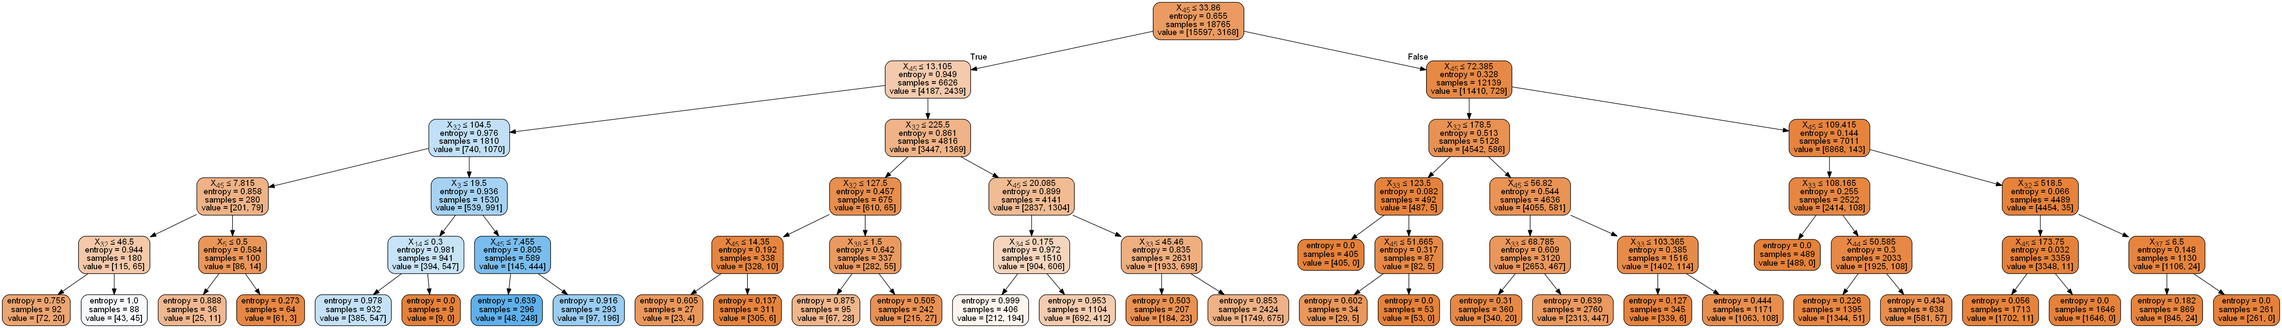
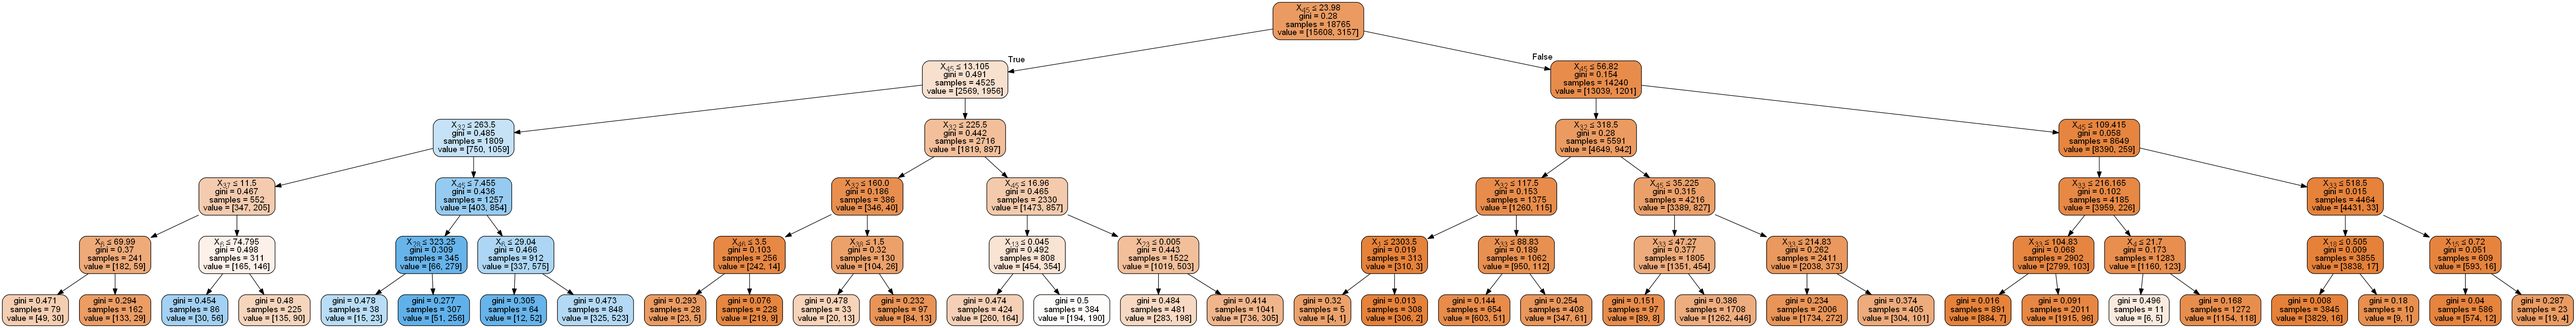
After lecture

diff --git a/lab2/src/main.py b/lab2/src/main.py
@@ -5,7 +5,6 @@ import random
 
 from CampaignDetails import CampaignDetails
 import Constants
-import matplotlib.pyplot as plt
 import pandas as pd
 from sklearn.tree import DecisionTreeClassifier, export_graphviz
 import numpy as np
@@ -14,6 +13,7 @@ from sklearn.metrics import accuracy_score
 from sklearn.externals.six import StringIO
 from sklearn.ensemble import BaggingClassifier  
 from sklearn.neighbors import KNeighborsClassifier
+from sklearn.neighbors import NearestNeighbors
 from sklearn.ensemble import RandomForestClassifier
 import pydot 
 
@@ -32,32 +32,6 @@ def SplitDataByProportion (data, training_proportion, test_proportion):
     testData = data[int(trainingCount):int(totalLength)]
     return trainingData, testData
 
-def VisualizeClassifier(model, X, y, ax=None, cmap='rainbow'):
-    ax = ax or plt.gca()
-    
-    # Plot the training points
-    ax.scatter(X[:, 0], X[:, 1], c=y, s=30, cmap=cmap,
-               clim=(y.min(), y.max()), zorder=3)
-    ax.axis('tight')
-    ax.axis('off')
-    xlim = ax.get_xlim()
-    ylim = ax.get_ylim()
-    
-    # fit the estimator
-    model.fit(X, y)
-    xx, yy = np.meshgrid(np.linspace(*xlim, num=200),
-                         np.linspace(*ylim, num=200))
-    Z = model.predict(np.c_[xx.ravel(), yy.ravel()]).reshape(xx.shape)
-
-    # Create a color plot with the results
-    n_classes = len(np.unique(y))
-    contours = ax.contourf(xx, yy, Z, alpha=0.3,
-                           levels=np.arange(n_classes + 1) - 0.5,
-                           cmap=cmap, clim=(y.min(), y.max()),
-                           zorder=1)
-
-    ax.set(xlim=xlim, ylim=ylim)
-
 def RunTraining(classifier, columns, resultCol, trainingData, testdata, imgFile=""):
     training_data_projection = trainingData[columns].values
     target_data_projection = trainingData[resultCol].values
@@ -68,6 +42,18 @@ def RunTraining(classifier, columns, resultCol, trainingData, testdata, imgFile=
     classifier.fit(training_data_projection, target_data_projection)
     results = classifier.predict(test_data_projection)
 
+    matrix = [0, 0, 0, 0]
+    
+    for i in range(0, len(results)):
+        if actual_result_data[i] and results[i]:
+            matrix[0] = matrix[0] + 1
+        elif actual_result_data[i] and not results[i]:
+            matrix[1] = matrix[1] + 1
+        elif not actual_result_data[i] and results[i]:
+            matrix[2] = matrix[2] + 1
+        elif not actual_result_data[i] and not results[i]:
+            matrix[3] = matrix[3] + 1
+
     accuracy = accuracy_score(actual_result_data, results)*100
     if imgFile != "":
         dot_data = StringIO()
@@ -75,7 +61,7 @@ def RunTraining(classifier, columns, resultCol, trainingData, testdata, imgFile=
         graph = pydot.graph_from_dot_data(dot_data.getvalue())
         graph[0].write_png(imgFile)
     
-    return accuracy 
+    return accuracy, matrix 
 
 
 def RunDecisionTree(columns, resultCol, trainingData, testdata, imgFile):    
@@ -83,28 +69,49 @@ def RunDecisionTree(columns, resultCol, trainingData, testdata, imgFile):
     return RunTraining(clf_gini, columns, resultCol, trainingData, testdata, imgFile)
 
 def RunDecisionTreeWithBagging(columns, resultCol, trainingData, testdata):    
-    bagging = BaggingClassifier(KNeighborsClassifier(),max_samples=0.5, max_features=0.5)
+    # bagging = BaggingClassifier(KNeighborsClassifier(),max_samples=0.5, max_features=0.5)
+    bagging = BaggingClassifier(DecisionTreeClassifier(criterion = "entropy", max_depth=5, min_samples_leaf=5),max_samples=0.5, max_features=0.5)
     return RunTraining(bagging, columns, resultCol, trainingData, testdata)
 
 def RunDecisionTreeWithForest(columns, resultCol, trainingData, testdata):    
     bagging = RandomForestClassifier(n_estimators=10)
     return RunTraining(bagging, columns, resultCol, trainingData, testdata)
 
+def RunBestFit(data):
+    nbrs = NearestNeighbors(n_neighbors=2, algorithm='ball_tree').fit(data) 
+
 def __main__():  
     df = pd.read_csv (Constants.DATA_FILE)
     df = shuffle(df)
     training_data, test_data = SplitDataByProportion(df, 90, 10)
-    run1 = RunDecisionTree(['RESPONDED',  'WEB', 'AVRG', 'CC_CARD'], 'RESP', training_data, test_data, '4features.png')
-    run2 = RunDecisionTree(['RESPONDED', 'WEB', 'AVRG',  'CC_CARD', 'derived_RESPONSE_TO_PROMOTION', 'derived_AVERAGE_SPENT'], 'RESP', training_data, test_data, '4features+2derived.png')
-    run3 = RunDecisionTree(["HHKEY", "ZIP_CODE", "REC", "FRE", "MON", "CC_CARD", "AVRG", "PSWEATERS", "PKNIT_TOPS", "PKNIT_DRES","PBLOUSES","PJACKETS","PCAR_PNTS","PCAS_PNTS","PSHIRTS","PDRESSES","PSUITS","POUTERWEAR","PJEWELRY","PFASHION","PLEGWEAR","PCOLLSPND","AMSPEND","PSSPEND","CCSPEND","AXSPEND","TMONSPEND","OMONSPEND","SMONSPEND","PREVPD","GMP","PROMOS","DAYS","FREDAYS","MARKDOWN","CLASSES","COUPONS","STYLES","STORES","STORELOY","WEB","MAILED","RESPONDED","RESPONSERATE","HI","LTFREDAY","CLUSTYPE","PERCRET",'derived_RESPONSE_TO_PROMOTION','derived_AVERAGE_SPENT'], 'RESP', training_data, test_data, 'allFeatures.png')
-    run4_1 = RunDecisionTreeWithBagging(['RESPONDED', 'WEB', 'AVRG', 'CC_CARD'], 'RESP', training_data, test_data)
-    run4_2 = RunDecisionTreeWithForest(['RESPONDED', 'WEB', 'AVRG', 'CC_CARD'], 'RESP', training_data, test_data)
+    run1, matrix1 = RunDecisionTree(['RESPONDED',  'WEB', 'AVRG', 'CC_CARD'], 'RESP', training_data, test_data, '4features.png')
+    run2, matrix2 = RunDecisionTree(['RESPONDED', 'WEB', 'AVRG',  'CC_CARD', 'derived_RESPONSE_TO_PROMOTION', 'derived_AVERAGE_SPENT'], 'RESP', training_data, test_data, '4features+2derived.png')
+    run3, matrix3 = RunDecisionTree(["HHKEY", "ZIP_CODE", "REC", "FRE", "MON", "CC_CARD", "AVRG", "PSWEATERS", "PKNIT_TOPS", "PKNIT_DRES","PBLOUSES","PJACKETS","PCAR_PNTS","PCAS_PNTS","PSHIRTS","PDRESSES","PSUITS","POUTERWEAR","PJEWELRY","PFASHION","PLEGWEAR","PCOLLSPND","AMSPEND","PSSPEND","CCSPEND","AXSPEND","TMONSPEND","OMONSPEND","SMONSPEND","PREVPD","GMP","PROMOS","DAYS","FREDAYS","MARKDOWN","CLASSES","COUPONS","STYLES","STORES","STORELOY","WEB","MAILED","RESPONDED","RESPONSERATE","HI","LTFREDAY","CLUSTYPE","PERCRET",'derived_RESPONSE_TO_PROMOTION','derived_AVERAGE_SPENT'], 'RESP', training_data, test_data, 'allFeatures.png')
+    run4_1, matrix4_1 = RunDecisionTreeWithBagging(['RESPONDED', 'WEB', 'AVRG', 'CC_CARD'], 'RESP', training_data, test_data)
+    run4_2, matrix4_2 = RunDecisionTreeWithForest(['RESPONDED', 'WEB', 'AVRG', 'CC_CARD'], 'RESP', training_data, test_data)
     
     print(run1)
+    print(matrix1)
+    print("*******************")
+
     print(run2)
+    print(matrix2)
+    print("*******************")    
+
     print(run3)
+    print(matrix3)
+    print("*******************")
+
     print(run4_1)
+    print(matrix4_1)
+    print("*******************")
+
     print(run4_2)
+    print(matrix4_2)
+    print("*******************")   
+
+    
+#prediction kaip gavome??
 
 # Lab2 Report link: https://docs.google.com/document/d/1SWtKXVoKqoz7XgTmn5he2f8zm2Z3e508Rk_c8y3y82M/edit?usp=sharing
 # TODO: balance target value RESP

diff --git a/lab1/src/main.py b/lab1/src/main.py
@@ -45,6 +45,9 @@ def __main__():
     dataColumns = ["HHKEY", "ZIP_CODE", "REC", "FRE", "MON", "CC_CARD", "AVRG", "PC_CALC20", "PSWEATERS", "PKNIT_TOPS", "PKNIT_DRES","PBLOUSES","PJACKETS","PCAR_PNTS","PCAS_PNTS","PSHIRTS","PDRESSES","PSUITS","POUTERWEAR","PJEWELRY","PFASHION","PLEGWEAR","PCOLLSPND","AMSPEND","PSSPEND","CCSPEND","AXSPEND","TMONSPEND","OMONSPEND","SMONSPEND","PREVPD","GMP","PROMOS","DAYS","FREDAYS","MARKDOWN","CLASSES","COUPONS","STYLES","STORES","STORELOY","VALPHON","WEB","MAILED","RESPONDED","RESPONSERATE","HI","LTFREDAY","CLUSTYPE","PERCRET","RESP"]
     data = ReadInitialData(Constants.DATA_FILE)
 
+    TargetFeature = CategoricalData(list(item.RESP for item in data), "Responded")
+    TargetFeature.DrawBarChart(("Responded", "Not"), ["1", "0"], "Responding", "Responding to promotions")
+
     # calculate categorical value for credit card holder
     CardHolderData = CategoricalData(list(item.CC_CARD for item in data), "Card holder")
     CardHolderData.DrawBarChart(("CreditCard", "Cash"), ["1", "0"], "Usage", "Credit card usage")
